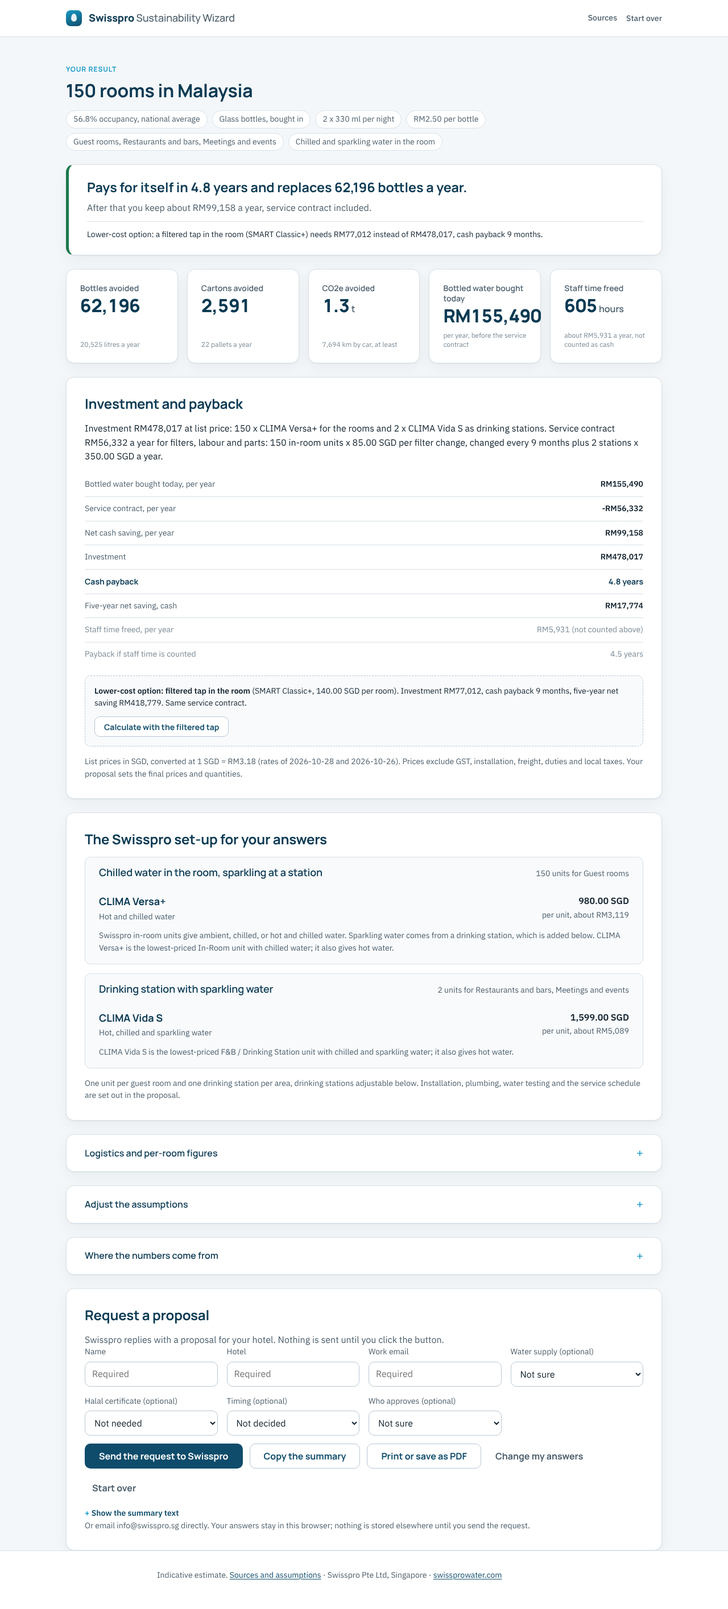
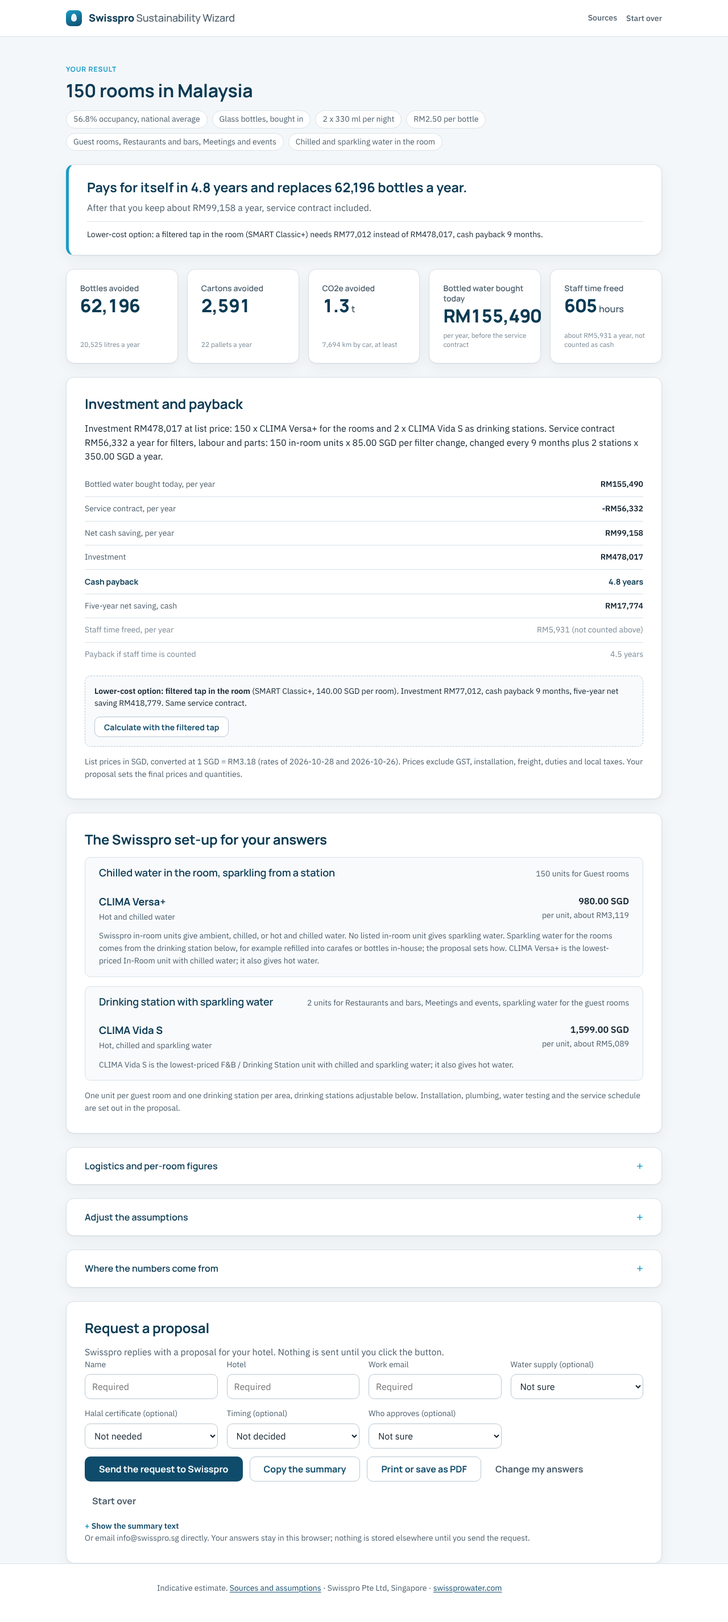
Lower-cost option as an explicit, reversible override that keeps the sparkling station; sparkling explained for the rooms
Claude-Session: https://claude.ai/code/session_01APodsUFWSb661S1TCdvVpy

diff --git a/artifact/wizard.html b/artifact/wizard.html
@@ -935,14 +935,22 @@ details.fine summary { font-weight: 600; }
     return plan;
   }
 
-  function inRoomSolution(a) {
+  var SPARKLING_NOTE = 'No listed in-room unit gives sparkling water. Sparkling water for the rooms comes from the drinking station below, for example refilled into carafes or bottles in-house; the proposal sets how.';
+
+  function inRoomSolution(a, overrides) {
     var temps = a.temps || 'ambient';
     var s = { area: 'inRoom', areaLabel: 'In-Room', covers: [LABELS.areas.rooms], requiredTemps: [], notes: [] };
+    if (overrides && overrides.inRoomTap && temps !== 'ambient') {
+      s.title = 'Filtered tap in the room (lower-cost option)'; s.requiredTemps = ['ambient']; s.lowerCost = true;
+      s.notes.push('You asked for ' + LABELS.temps[temps] + ' water in the room; this is the lower-cost option with a filtered tap.');
+      if (temps === 'sparkling') s.notes.push(SPARKLING_NOTE);
+      return s;
+    }
     if (temps === 'ambient') { s.title = 'Filtered tap in the room'; s.requiredTemps = ['ambient']; }
     else if (temps === 'sparkling') {
-      s.title = 'Chilled water in the room, sparkling at a station';
+      s.title = 'Chilled water in the room, sparkling from a station';
       s.requiredTemps = ['cold'];
-      s.notes.push('Swisspro in-room units give ambient, chilled, or hot and chilled water. Sparkling water comes from a drinking station, which is added below.');
+      s.notes.push('Swisspro in-room units give ambient, chilled, or hot and chilled water. ' + SPARKLING_NOTE);
     }
     else if (temps === 'hotcold') { s.title = 'Hot and chilled water at the minibar'; s.requiredTemps = ['hot', 'cold']; }
     else { s.title = 'Chilled water at the minibar'; s.requiredTemps = ['cold']; }
@@ -952,7 +960,7 @@ details.fine summary { font-weight: 600; }
   function stationSolution(a) {
     var covers = ['fnb', 'meetings', 'boh'].filter(function (k) { return has(a.areas, k); }).map(function (k) { return LABELS.areas[k]; });
     var sparkling = has(a.areas, 'rooms') && a.temps === 'sparkling';
-    if (sparkling && !covers.length) covers.push('Sparkling water for the rooms');
+    if (sparkling) covers.push('sparkling water for the guest rooms');
     return { area: 'fnb', areaLabel: 'F&B / Drinking Station', covers: covers, requiredTemps: sparkling ? ['cold', 'sparkling'] : ['cold'], notes: [], title: sparkling ? 'Drinking station with sparkling water' : 'Drinking station' };
   }
 
@@ -981,15 +989,15 @@ details.fine summary { font-weight: 600; }
   }
 
   /* Lower-cost comparison: a filtered tap (ambient) in the room instead of a chilled or hot unit. */
-  function alternative(a, PL) {
-    if (!has(a.areas, 'rooms') || !a.temps || a.temps === 'ambient') return null;
+  function alternative(a, PL, overrides) {
+    if (!has(a.areas, 'rooms') || !a.temps || a.temps === 'ambient' || (overrides && overrides.inRoomTap)) return null;
     var s = attachProducts(inRoomSolution({ temps: 'ambient' }), PL);
     return s.exactMatch ? s : null;
   }
 
-  function solutions(a, PL) {
+  function solutions(a, PL, overrides) {
     var out = [];
-    if (has(a.areas, 'rooms')) out.push(attachProducts(inRoomSolution(a), PL));
+    if (has(a.areas, 'rooms')) out.push(attachProducts(inRoomSolution(a, overrides), PL));
     if (has(a.areas, 'fnb') || has(a.areas, 'meetings') || has(a.areas, 'boh') || (has(a.areas, 'rooms') && a.temps === 'sparkling')) out.push(attachProducts(stationSolution(a), PL));
     return out;
   }
@@ -1009,13 +1017,14 @@ details.fine summary { font-weight: 600; }
     return { order: order.map(function (k) { return args[k]; }), cheapWater: cheapWater, priceUsd: priceUsd };
   }
 
-  function segment(a) {
-    return { current: LABELS.current[a.current] || '-', areas: (a.areas || []).map(function (x) { return LABELS.areas[x] || x; }), temps: LABELS.temps[a.temps] || null };
+  function segment(a, overrides) {
+    var lower = !!(overrides && overrides.inRoomTap && a.temps && a.temps !== 'ambient' && has(a.areas, 'rooms'));
+    return { current: LABELS.current[a.current] || '-', areas: (a.areas || []).map(function (x) { return LABELS.areas[x] || x; }), temps: LABELS.temps[a.temps] || null, lowerCost: lower, tempsShown: lower ? LABELS.temps.ambient : (LABELS.temps[a.temps] || null) };
   }
 
   function recommend(a, inp, F, PL, overrides) {
     var args = argumentOrder(inp, F);
-    return { segment: segment(a), unitPlan: unitPlan(a, overrides), solutions: solutions(a, PL), alternative: alternative(a, PL), arguments: args.order, cheapWater: args.cheapWater, labels: LABELS };
+    return { segment: segment(a, overrides), unitPlan: unitPlan(a, overrides), solutions: solutions(a, PL, overrides), alternative: alternative(a, PL, overrides), arguments: args.order, cheapWater: args.cheapWater, labels: LABELS };
   }
 
   return { recommend: recommend, unitPlan: unitPlan, solutions: solutions, alternative: alternative, describe: describe, inRoomSolution: inRoomSolution, stationSolution: stationSolution, argumentOrder: argumentOrder, LABELS: LABELS, TEMP_LABEL: TEMP_LABEL };
@@ -1133,7 +1142,8 @@ details.fine summary { font-weight: 600; }
     step.fields.forEach(function (f) {
       if (f.showIf && !f.showIf(a)) return;
       var wrap = el('div', { class: 'field', 'data-field': f.id });
-      if (f.label) wrap.appendChild(el('div', { class: 'field-label', id: 'lbl-' + f.id, text: f.label }));
+      var labelText = f.id === 'priceCustom' ? 'Price per bottle (' + (F.countries[a.country] || F.countries.OTHER).currency + ')' : f.label;
+      if (f.label) wrap.appendChild(el('div', { class: 'field-label', id: 'lbl-' + f.id, text: labelText }));
       if (f.type === 'single' || f.type === 'multi') {
         var opts = fieldOptions(f);
         var listMode = opts.some(function (o) { return o.desc && o.desc.length > 40; });
@@ -1295,7 +1305,7 @@ details.fine summary { font-weight: 600; }
     }
     var y = pb.cashPaybackYears, net = pb.cashSavingsPerYear;
     if (isFinite(y) && y <= 5) {
-      v.tone = 'good';
+      v.tone = y <= 4 ? 'good' : 'neutral';
       v.head = 'Pays for itself in ' + fmt.years(y) + ' and replaces ' + bottles + '.';
       v.sub = 'After that you keep about ' + moneyShort(ctx, net) + ' a year, service contract included.';
     } else if (isFinite(y)) {
@@ -1312,6 +1322,10 @@ details.fine summary { font-weight: 600; }
     return v;
   }
 
+  function scrollToVerdict() { var h = document.querySelector('.verdict'); if (h) h.scrollIntoView({ behavior: 'smooth', block: 'start' }); }
+  function showLowerCost() { state.overrides.inRoomTap = true; save(); renderResults(); scrollToVerdict(); }
+  function backToChoice() { delete state.overrides.inRoomTap; save(); renderResults(); scrollToVerdict(); }
+
   function renderResults() {
     var ctx = compute();
     var a = state.answers, n = ctx.n, c = ctx.calc, rec = ctx.rec, prov = n.provenance, inp = n.inputs;
@@ -1327,12 +1341,13 @@ details.fine summary { font-weight: 600; }
         inp.bottlesPerRoomNight ? el('span', { text: inp.bottlesPerRoomNight + ' x ' + sizeLabel(inp.bottleSizeMl) + ' per night' + (bpnAssumed || sizeAssumed ? ', assumed' : '') }) : null,
         inp.pricePerBottle > 0 ? el('span', { text: fmt.money(inp.symbol, inp.pricePerBottle, inp.decimals === 0 ? 0 : 2) + ' per bottle' + (prov.pricePerBottle.kind !== 'user' ? ', reference price' : '') }) : null,
         el('span', { text: rec.segment.areas.join(', ') }),
-        rec.segment.temps ? el('span', { class: state.prevTemps ? 'chip-switched' : null, text: fmt.cap(rec.segment.temps) + ' water in the room' + (state.prevTemps ? ', switched from ' + R.LABELS.temps[state.prevTemps] : '') }) : null)));
+        rec.segment.temps ? el('span', { class: rec.segment.lowerCost ? 'chip-switched' : null, text: rec.segment.lowerCost ? 'Showing the filtered tap instead of ' + rec.segment.temps + ' water in the room' : fmt.cap(rec.segment.temps) + ' water in the room' }) : null)));
 
     var v = verdict(ctx);
     root.appendChild(el('section', { class: 'card verdict verdict-' + v.tone },
       el('p', { class: 'verdict-head', text: v.head }),
       v.sub ? el('p', { class: 'verdict-sub', text: v.sub }) : null,
+      rec.segment.lowerCost ? el('p', { class: 'verdict-alt' }, 'You are looking at the lower-cost option: a filtered tap in the room. Your original choice was ' + rec.segment.temps + ' water. ', el('button', { type: 'button', class: 'link-btn', onclick: backToChoice }, 'Back to ' + rec.segment.temps)) : null,
       v.alt ? el('p', { class: 'verdict-alt', text: v.alt }) : null));
 
     var tiles = el('div', { class: 'tiles' });
@@ -1375,7 +1390,7 @@ details.fine summary { font-weight: 600; }
   }
 
   function renderPayback(ctx) {
-    var c = ctx.calc, inp = ctx.n.inputs, pr = ctx.pr, pb = c.payback, cur = PL.pricelist.currency.value;
+    var c = ctx.calc, inp = ctx.n.inputs, pr = ctx.pr, pb = c.payback, rec = ctx.rec, cur = PL.pricelist.currency.value;
     var card = el('section', { class: 'card' });
     card.appendChild(el('h3', { text: 'Investment and payback' }));
     card.appendChild(el('p', { class: 'lead-line', text: investmentSentence(ctx) }));
@@ -1397,11 +1412,9 @@ details.fine summary { font-weight: 600; }
         var ap = pr.alt.payback;
         card.appendChild(el('div', { class: 'alt-box' },
           el('p', {}, el('strong', { text: 'Lower-cost option: filtered tap in the room' }), ' (' + modelName(pr.alt.product) + ', ' + listPrice(pr.alt.product) + ' per room). Investment ' + money(ctx, pr.alt.capexLocal) + ', cash payback ' + fmt.years(ap.cashPaybackYears) + ', five-year net saving ' + money(ctx, ap.fiveYearNetCash) + '. Same service contract.'),
-          el('button', { type: 'button', class: 'btn btn-secondary btn-sm', onclick: function () { state.prevTemps = state.answers.temps; state.answers.temps = 'ambient'; save(); renderResults(); var h = document.querySelector('.verdict'); if (h) h.scrollIntoView({ behavior: 'smooth', block: 'start' }); } }, 'Calculate with the filtered tap')));
+          el('button', { type: 'button', class: 'btn btn-secondary btn-sm', onclick: showLowerCost }, 'Calculate with the filtered tap')));
       }
-      if (state.prevTemps && state.prevTemps !== 'ambient' && state.answers.temps === 'ambient') {
-        card.appendChild(el('p', { class: 'small', style: 'margin-top:12px' }, el('button', { type: 'button', class: 'link-btn', onclick: function () { state.answers.temps = state.prevTemps; delete state.prevTemps; save(); renderResults(); var h = document.querySelector('.verdict'); if (h) h.scrollIntoView({ behavior: 'smooth', block: 'start' }); } }, 'Back to ' + (R.LABELS.temps[state.prevTemps] || state.prevTemps) + ' water in the room')));
-      }
+      if (rec.segment.lowerCost) card.appendChild(el('p', { class: 'small', style: 'margin-top:12px' }, el('button', { type: 'button', class: 'link-btn', onclick: backToChoice }, 'Back to ' + rec.segment.temps + ' water in the room')));
     } else if (pr.unpriced.length) {
       card.appendChild(el('p', { class: 'notice', text: 'The price list has no unit for ' + pr.unpriced.map(function (u) { return u.area; }).join(' and ') + '. Enter the investment from your proposal under Adjust to see the payback.' }));
     } else {
@@ -1501,7 +1514,7 @@ details.fine summary { font-weight: 600; }
     field(g3, 'newMinutesPerRoomPerDay', 'Minutes per room and day with filtered water', inp.newMinutesPerRoomPerDay, 0.5, null, 'Refilling carafes, for example');
     field(g3, 'wageHourly', 'Hourly labour cost (' + inp.currency + ')', Math.round(inp.wageHourly * 100) / 100, 0.1, null, ctx.n.provenance.wageHourly.kind === 'user' ? 'Your figure' : 'Minimum wage');
     field(g3, 'stockWeeks', 'Weeks of stock on site', inp.stockWeeks, 1);
-    card.appendChild(el('div', { class: 'actions' }, el('button', { type: 'button', class: 'btn btn-ghost', onclick: function () { state.overrides = {}; if (state.prevTemps) { state.answers.temps = state.prevTemps; delete state.prevTemps; } save(); renderResults(); } }, 'Reset to the defaults')));
+    card.appendChild(el('div', { class: 'actions' }, el('button', { type: 'button', class: 'btn btn-ghost', onclick: function () { state.overrides = {}; save(); renderResults(); } }, 'Reset to the defaults')));
     return card;
   }
 
@@ -1547,7 +1560,7 @@ details.fine summary { font-weight: 600; }
     L.push('');
     L.push(fmt.int(inp.rooms) + ' rooms in ' + ctx.n.country.name + ', ' + fmt.pct(inp.occupancy) + ' occupancy' + (ctx.n.provenance.occupancy.kind === 'user' ? '' : ' (national average)') + '.');
     L.push('Today: ' + rec.segment.current + (inp.bottlesPerRoomNight ? ', ' + inp.bottlesPerRoomNight + ' x ' + sizeLabel(inp.bottleSizeMl) + ' per room and night' : '') + (inp.pricePerBottle > 0 ? ' at ' + fmt.money(sym, inp.pricePerBottle, inp.decimals === 0 ? 0 : 2) + ' per bottle' + (ctx.n.provenance.pricePerBottle.kind === 'user' ? '' : ' (reference price)') : '') + '.');
-    L.push('Wanted: ' + rec.segment.areas.join(', ') + (rec.segment.temps ? '; ' + rec.segment.temps + ' water in the room' : '') + '.');
+    L.push('Wanted: ' + rec.segment.areas.join(', ') + (rec.segment.temps ? '; ' + rec.segment.temps + ' water in the room' : '') + '.' + (rec.segment.lowerCost ? ' Figures below are for the lower-cost option with a filtered tap in the room.' : ''));
     var extra = []; if (p.source) extra.push('Water supply: ' + (R.LABELS.source[p.source] || p.source)); if (p.halal) extra.push('Halal certificate requested'); if (p.timing) extra.push('Timing: ' + R.LABELS.timing[p.timing]); if (p.approval) extra.push('Approval by: ' + R.LABELS.approval[p.approval]);
     if (extra.length) L.push(extra.join('. ') + '.');
     L.push('');
@@ -1627,7 +1640,7 @@ details.fine summary { font-weight: 600; }
       sendBtn,
       el('button', { type: 'button', class: 'btn btn-secondary', onclick: function () { copyText(this, refreshText()); } }, 'Copy the summary'),
       ARTIFACT ? null : el('button', { type: 'button', class: 'btn btn-secondary', onclick: function () { window.print(); } }, 'Print or save as PDF'),
-      el('button', { type: 'button', class: 'btn btn-ghost', onclick: function () { state.view = 'wizard'; state.step = 0; delete state.prevTemps; save(); render(); scrollTop(); } }, 'Change my answers'),
+      el('button', { type: 'button', class: 'btn btn-ghost', onclick: function () { state.view = 'wizard'; state.step = 0; delete state.overrides.inRoomTap; save(); render(); scrollTop(); } }, 'Change my answers'),
       el('button', { type: 'button', class: 'btn btn-ghost', onclick: restart }, 'Start over'));
     card.appendChild(actions);
     card.appendChild(status);

diff --git a/js/app.js b/js/app.js
@@ -74,7 +74,8 @@
     step.fields.forEach(function (f) {
       if (f.showIf && !f.showIf(a)) return;
       var wrap = el('div', { class: 'field', 'data-field': f.id });
-      if (f.label) wrap.appendChild(el('div', { class: 'field-label', id: 'lbl-' + f.id, text: f.label }));
+      var labelText = f.id === 'priceCustom' ? 'Price per bottle (' + (F.countries[a.country] || F.countries.OTHER).currency + ')' : f.label;
+      if (f.label) wrap.appendChild(el('div', { class: 'field-label', id: 'lbl-' + f.id, text: labelText }));
       if (f.type === 'single' || f.type === 'multi') {
         var opts = fieldOptions(f);
         var listMode = opts.some(function (o) { return o.desc && o.desc.length > 40; });
@@ -236,7 +237,7 @@
     }
     var y = pb.cashPaybackYears, net = pb.cashSavingsPerYear;
     if (isFinite(y) && y <= 5) {
-      v.tone = 'good';
+      v.tone = y <= 4 ? 'good' : 'neutral';
       v.head = 'Pays for itself in ' + fmt.years(y) + ' and replaces ' + bottles + '.';
       v.sub = 'After that you keep about ' + moneyShort(ctx, net) + ' a year, service contract included.';
     } else if (isFinite(y)) {
@@ -253,6 +254,10 @@
     return v;
   }
 
+  function scrollToVerdict() { var h = document.querySelector('.verdict'); if (h) h.scrollIntoView({ behavior: 'smooth', block: 'start' }); }
+  function showLowerCost() { state.overrides.inRoomTap = true; save(); renderResults(); scrollToVerdict(); }
+  function backToChoice() { delete state.overrides.inRoomTap; save(); renderResults(); scrollToVerdict(); }
+
   function renderResults() {
     var ctx = compute();
     var a = state.answers, n = ctx.n, c = ctx.calc, rec = ctx.rec, prov = n.provenance, inp = n.inputs;
@@ -268,12 +273,13 @@
         inp.bottlesPerRoomNight ? el('span', { text: inp.bottlesPerRoomNight + ' x ' + sizeLabel(inp.bottleSizeMl) + ' per night' + (bpnAssumed || sizeAssumed ? ', assumed' : '') }) : null,
         inp.pricePerBottle > 0 ? el('span', { text: fmt.money(inp.symbol, inp.pricePerBottle, inp.decimals === 0 ? 0 : 2) + ' per bottle' + (prov.pricePerBottle.kind !== 'user' ? ', reference price' : '') }) : null,
         el('span', { text: rec.segment.areas.join(', ') }),
-        rec.segment.temps ? el('span', { class: state.prevTemps ? 'chip-switched' : null, text: fmt.cap(rec.segment.temps) + ' water in the room' + (state.prevTemps ? ', switched from ' + R.LABELS.temps[state.prevTemps] : '') }) : null)));
+        rec.segment.temps ? el('span', { class: rec.segment.lowerCost ? 'chip-switched' : null, text: rec.segment.lowerCost ? 'Showing the filtered tap instead of ' + rec.segment.temps + ' water in the room' : fmt.cap(rec.segment.temps) + ' water in the room' }) : null)));
 
     var v = verdict(ctx);
     root.appendChild(el('section', { class: 'card verdict verdict-' + v.tone },
       el('p', { class: 'verdict-head', text: v.head }),
       v.sub ? el('p', { class: 'verdict-sub', text: v.sub }) : null,
+      rec.segment.lowerCost ? el('p', { class: 'verdict-alt' }, 'You are looking at the lower-cost option: a filtered tap in the room. Your original choice was ' + rec.segment.temps + ' water. ', el('button', { type: 'button', class: 'link-btn', onclick: backToChoice }, 'Back to ' + rec.segment.temps)) : null,
       v.alt ? el('p', { class: 'verdict-alt', text: v.alt }) : null));
 
     var tiles = el('div', { class: 'tiles' });
@@ -316,7 +322,7 @@
   }
 
   function renderPayback(ctx) {
-    var c = ctx.calc, inp = ctx.n.inputs, pr = ctx.pr, pb = c.payback, cur = PL.pricelist.currency.value;
+    var c = ctx.calc, inp = ctx.n.inputs, pr = ctx.pr, pb = c.payback, rec = ctx.rec, cur = PL.pricelist.currency.value;
     var card = el('section', { class: 'card' });
     card.appendChild(el('h3', { text: 'Investment and payback' }));
     card.appendChild(el('p', { class: 'lead-line', text: investmentSentence(ctx) }));
@@ -338,11 +344,9 @@
         var ap = pr.alt.payback;
         card.appendChild(el('div', { class: 'alt-box' },
           el('p', {}, el('strong', { text: 'Lower-cost option: filtered tap in the room' }), ' (' + modelName(pr.alt.product) + ', ' + listPrice(pr.alt.product) + ' per room). Investment ' + money(ctx, pr.alt.capexLocal) + ', cash payback ' + fmt.years(ap.cashPaybackYears) + ', five-year net saving ' + money(ctx, ap.fiveYearNetCash) + '. Same service contract.'),
-          el('button', { type: 'button', class: 'btn btn-secondary btn-sm', onclick: function () { state.prevTemps = state.answers.temps; state.answers.temps = 'ambient'; save(); renderResults(); var h = document.querySelector('.verdict'); if (h) h.scrollIntoView({ behavior: 'smooth', block: 'start' }); } }, 'Calculate with the filtered tap')));
+          el('button', { type: 'button', class: 'btn btn-secondary btn-sm', onclick: showLowerCost }, 'Calculate with the filtered tap')));
       }
-      if (state.prevTemps && state.prevTemps !== 'ambient' && state.answers.temps === 'ambient') {
-        card.appendChild(el('p', { class: 'small', style: 'margin-top:12px' }, el('button', { type: 'button', class: 'link-btn', onclick: function () { state.answers.temps = state.prevTemps; delete state.prevTemps; save(); renderResults(); var h = document.querySelector('.verdict'); if (h) h.scrollIntoView({ behavior: 'smooth', block: 'start' }); } }, 'Back to ' + (R.LABELS.temps[state.prevTemps] || state.prevTemps) + ' water in the room')));
-      }
+      if (rec.segment.lowerCost) card.appendChild(el('p', { class: 'small', style: 'margin-top:12px' }, el('button', { type: 'button', class: 'link-btn', onclick: backToChoice }, 'Back to ' + rec.segment.temps + ' water in the room')));
     } else if (pr.unpriced.length) {
       card.appendChild(el('p', { class: 'notice', text: 'The price list has no unit for ' + pr.unpriced.map(function (u) { return u.area; }).join(' and ') + '. Enter the investment from your proposal under Adjust to see the payback.' }));
     } else {
@@ -442,7 +446,7 @@
     field(g3, 'newMinutesPerRoomPerDay', 'Minutes per room and day with filtered water', inp.newMinutesPerRoomPerDay, 0.5, null, 'Refilling carafes, for example');
     field(g3, 'wageHourly', 'Hourly labour cost (' + inp.currency + ')', Math.round(inp.wageHourly * 100) / 100, 0.1, null, ctx.n.provenance.wageHourly.kind === 'user' ? 'Your figure' : 'Minimum wage');
     field(g3, 'stockWeeks', 'Weeks of stock on site', inp.stockWeeks, 1);
-    card.appendChild(el('div', { class: 'actions' }, el('button', { type: 'button', class: 'btn btn-ghost', onclick: function () { state.overrides = {}; if (state.prevTemps) { state.answers.temps = state.prevTemps; delete state.prevTemps; } save(); renderResults(); } }, 'Reset to the defaults')));
+    card.appendChild(el('div', { class: 'actions' }, el('button', { type: 'button', class: 'btn btn-ghost', onclick: function () { state.overrides = {}; save(); renderResults(); } }, 'Reset to the defaults')));
     return card;
   }
 
@@ -488,7 +492,7 @@
     L.push('');
     L.push(fmt.int(inp.rooms) + ' rooms in ' + ctx.n.country.name + ', ' + fmt.pct(inp.occupancy) + ' occupancy' + (ctx.n.provenance.occupancy.kind === 'user' ? '' : ' (national average)') + '.');
     L.push('Today: ' + rec.segment.current + (inp.bottlesPerRoomNight ? ', ' + inp.bottlesPerRoomNight + ' x ' + sizeLabel(inp.bottleSizeMl) + ' per room and night' : '') + (inp.pricePerBottle > 0 ? ' at ' + fmt.money(sym, inp.pricePerBottle, inp.decimals === 0 ? 0 : 2) + ' per bottle' + (ctx.n.provenance.pricePerBottle.kind === 'user' ? '' : ' (reference price)') : '') + '.');
-    L.push('Wanted: ' + rec.segment.areas.join(', ') + (rec.segment.temps ? '; ' + rec.segment.temps + ' water in the room' : '') + '.');
+    L.push('Wanted: ' + rec.segment.areas.join(', ') + (rec.segment.temps ? '; ' + rec.segment.temps + ' water in the room' : '') + '.' + (rec.segment.lowerCost ? ' Figures below are for the lower-cost option with a filtered tap in the room.' : ''));
     var extra = []; if (p.source) extra.push('Water supply: ' + (R.LABELS.source[p.source] || p.source)); if (p.halal) extra.push('Halal certificate requested'); if (p.timing) extra.push('Timing: ' + R.LABELS.timing[p.timing]); if (p.approval) extra.push('Approval by: ' + R.LABELS.approval[p.approval]);
     if (extra.length) L.push(extra.join('. ') + '.');
     L.push('');
@@ -568,7 +572,7 @@
       sendBtn,
       el('button', { type: 'button', class: 'btn btn-secondary', onclick: function () { copyText(this, refreshText()); } }, 'Copy the summary'),
       ARTIFACT ? null : el('button', { type: 'button', class: 'btn btn-secondary', onclick: function () { window.print(); } }, 'Print or save as PDF'),
-      el('button', { type: 'button', class: 'btn btn-ghost', onclick: function () { state.view = 'wizard'; state.step = 0; delete state.prevTemps; save(); render(); scrollTop(); } }, 'Change my answers'),
+      el('button', { type: 'button', class: 'btn btn-ghost', onclick: function () { state.view = 'wizard'; state.step = 0; delete state.overrides.inRoomTap; save(); render(); scrollTop(); } }, 'Change my answers'),
       el('button', { type: 'button', class: 'btn btn-ghost', onclick: restart }, 'Start over'));
     card.appendChild(actions);
     card.appendChild(status);

diff --git a/js/recommend.js b/js/recommend.js
@@ -29,14 +29,22 @@
     return plan;
   }
 
-  function inRoomSolution(a) {
+  var SPARKLING_NOTE = 'No listed in-room unit gives sparkling water. Sparkling water for the rooms comes from the drinking station below, for example refilled into carafes or bottles in-house; the proposal sets how.';
+
+  function inRoomSolution(a, overrides) {
     var temps = a.temps || 'ambient';
     var s = { area: 'inRoom', areaLabel: 'In-Room', covers: [LABELS.areas.rooms], requiredTemps: [], notes: [] };
+    if (overrides && overrides.inRoomTap && temps !== 'ambient') {
+      s.title = 'Filtered tap in the room (lower-cost option)'; s.requiredTemps = ['ambient']; s.lowerCost = true;
+      s.notes.push('You asked for ' + LABELS.temps[temps] + ' water in the room; this is the lower-cost option with a filtered tap.');
+      if (temps === 'sparkling') s.notes.push(SPARKLING_NOTE);
+      return s;
+    }
     if (temps === 'ambient') { s.title = 'Filtered tap in the room'; s.requiredTemps = ['ambient']; }
     else if (temps === 'sparkling') {
-      s.title = 'Chilled water in the room, sparkling at a station';
+      s.title = 'Chilled water in the room, sparkling from a station';
       s.requiredTemps = ['cold'];
-      s.notes.push('Swisspro in-room units give ambient, chilled, or hot and chilled water. Sparkling water comes from a drinking station, which is added below.');
+      s.notes.push('Swisspro in-room units give ambient, chilled, or hot and chilled water. ' + SPARKLING_NOTE);
     }
     else if (temps === 'hotcold') { s.title = 'Hot and chilled water at the minibar'; s.requiredTemps = ['hot', 'cold']; }
     else { s.title = 'Chilled water at the minibar'; s.requiredTemps = ['cold']; }
@@ -46,7 +54,7 @@
   function stationSolution(a) {
     var covers = ['fnb', 'meetings', 'boh'].filter(function (k) { return has(a.areas, k); }).map(function (k) { return LABELS.areas[k]; });
     var sparkling = has(a.areas, 'rooms') && a.temps === 'sparkling';
-    if (sparkling && !covers.length) covers.push('Sparkling water for the rooms');
+    if (sparkling) covers.push('sparkling water for the guest rooms');
     return { area: 'fnb', areaLabel: 'F&B / Drinking Station', covers: covers, requiredTemps: sparkling ? ['cold', 'sparkling'] : ['cold'], notes: [], title: sparkling ? 'Drinking station with sparkling water' : 'Drinking station' };
   }
 
@@ -75,15 +83,15 @@
   }
 
   /* Lower-cost comparison: a filtered tap (ambient) in the room instead of a chilled or hot unit. */
-  function alternative(a, PL) {
-    if (!has(a.areas, 'rooms') || !a.temps || a.temps === 'ambient') return null;
+  function alternative(a, PL, overrides) {
+    if (!has(a.areas, 'rooms') || !a.temps || a.temps === 'ambient' || (overrides && overrides.inRoomTap)) return null;
     var s = attachProducts(inRoomSolution({ temps: 'ambient' }), PL);
     return s.exactMatch ? s : null;
   }
 
-  function solutions(a, PL) {
+  function solutions(a, PL, overrides) {
     var out = [];
-    if (has(a.areas, 'rooms')) out.push(attachProducts(inRoomSolution(a), PL));
+    if (has(a.areas, 'rooms')) out.push(attachProducts(inRoomSolution(a, overrides), PL));
     if (has(a.areas, 'fnb') || has(a.areas, 'meetings') || has(a.areas, 'boh') || (has(a.areas, 'rooms') && a.temps === 'sparkling')) out.push(attachProducts(stationSolution(a), PL));
     return out;
   }
@@ -103,13 +111,14 @@
     return { order: order.map(function (k) { return args[k]; }), cheapWater: cheapWater, priceUsd: priceUsd };
   }
 
-  function segment(a) {
-    return { current: LABELS.current[a.current] || '-', areas: (a.areas || []).map(function (x) { return LABELS.areas[x] || x; }), temps: LABELS.temps[a.temps] || null };
+  function segment(a, overrides) {
+    var lower = !!(overrides && overrides.inRoomTap && a.temps && a.temps !== 'ambient' && has(a.areas, 'rooms'));
+    return { current: LABELS.current[a.current] || '-', areas: (a.areas || []).map(function (x) { return LABELS.areas[x] || x; }), temps: LABELS.temps[a.temps] || null, lowerCost: lower, tempsShown: lower ? LABELS.temps.ambient : (LABELS.temps[a.temps] || null) };
   }
 
   function recommend(a, inp, F, PL, overrides) {
     var args = argumentOrder(inp, F);
-    return { segment: segment(a), unitPlan: unitPlan(a, overrides), solutions: solutions(a, PL), alternative: alternative(a, PL), arguments: args.order, cheapWater: args.cheapWater, labels: LABELS };
+    return { segment: segment(a, overrides), unitPlan: unitPlan(a, overrides), solutions: solutions(a, PL, overrides), alternative: alternative(a, PL, overrides), arguments: args.order, cheapWater: args.cheapWater, labels: LABELS };
   }
 
   return { recommend: recommend, unitPlan: unitPlan, solutions: solutions, alternative: alternative, describe: describe, inRoomSolution: inRoomSolution, stationSolution: stationSolution, argumentOrder: argumentOrder, LABELS: LABELS, TEMP_LABEL: TEMP_LABEL };

diff --git a/tools/walkthrough.js b/tools/walkthrough.js
@@ -105,6 +105,17 @@ const scenarios = {
       for (const [k, v] of Object.entries(prop)) { const sel = await page.$(`select#pf-${k}`); if (sel) await page.selectOption(`#pf-${k}`, v); else if (await page.$(`#pf-${k}`)) await page.fill(`#pf-${k}`, v); }
       const details = await page.$$('details'); for (const d of details) { await d.evaluate(e => e.open = true); }
       const payback = await page.$$eval('.kv td', els => els.map(e => e.textContent.trim()));
+      // lower-cost option: the recomputed investment must equal the figure promised in the box
+      if (await page.$('.alt-box .btn')) {
+        const promised = await page.$eval('.alt-box p', e => (e.textContent.match(/Investment (\S+), cash/) || [])[1]);
+        await page.click('.alt-box .btn'); await page.waitForTimeout(150);
+        const shown = await page.$eval('.lead-line', e => (e.textContent.match(/Investment ([^ ]+) /) || [])[1]);
+        if (promised !== shown) errors.push(`lower-cost option mismatch: promised ${promised}, shown ${shown}`);
+        if (!(await page.$('.chip-switched'))) errors.push('no switched chip after lower-cost option');
+        await page.click('.verdict .link-btn'); await page.waitForTimeout(150);
+        if (await page.$('.chip-switched')) errors.push('back link did not restore the choice');
+        await openAll();
+      }
       const summary = await page.evaluate(() => window.SW.app.summaryText(window.SW.app.compute()));
       ['perChange', 'pricelist', 'SWISPRO', 'no exact line', 'read as', 'localhost', '127.0.0.1'].forEach(bad => { if (summary.indexOf(bad) >= 0 && !(bad === '127.0.0.1')) errors.push('jargon in summary text: ' + bad); });
       const verdict = await page.$eval('.verdict-head', e => e.textContent).catch(() => '');

diff --git a/test/recommend.test.js b/test/recommend.test.js
@@ -34,7 +34,7 @@ test('products come only from the price list, only from the solution\'s area, ma
   assert.equal(sparkSols.length, 2); // chilled in the room plus a sparkling station
   assert.equal(sparkSols[0].exactMatch, true);
   assert.equal(sparkSols[0].products[0].label, 'CLIMA Versa+ (Hot, Cold)');
-  assert.match(sparkSols[0].notes.join(' '), /Sparkling water comes from a drinking station/);
+  assert.match(sparkSols[0].notes.join(' '), /Sparkling water for the rooms comes from the drinking station/);
   assert.equal(sparkSols[1].products[0].label, 'CLIMA Vida S (Hot, Cold, Sparkling)');
   assert.equal(R.unitPlan(Object.assign({}, base, { temps: 'sparkling' })).stations, 1);
   assert.equal(R.unitPlan(base, { stations: 4 }).stations, 4);
@@ -66,4 +66,16 @@ test('recommend() returns no lead score and no text-only flags', () => {
   const r = R.recommend(base, inp, F, PL);
   assert.equal(r.lead, undefined); assert.equal(r.filtration, undefined);
   assert.ok(Array.isArray(r.arguments) && r.solutions.length === 1);
+});
+
+test('lower-cost option keeps the sparkling station and the original wish', () => {
+  const a = { country: 'MY', rooms: 150, current: 'glass_bought', areas: ['rooms', 'fnb'], temps: 'sparkling' };
+  const r = R.recommend(a, inp, F, PL, { inRoomTap: true });
+  assert.equal(r.solutions[0].products[0].label, 'SMART Classic+');
+  assert.equal(r.solutions[0].lowerCost, true);
+  assert.equal(r.solutions[1].products[0].label, 'CLIMA Vida S (Hot, Cold, Sparkling)');
+  assert.match(r.solutions[1].covers.join(' '), /sparkling water for the guest rooms/);
+  assert.equal(r.segment.lowerCost, true);
+  assert.equal(r.segment.temps, 'chilled and sparkling');
+  assert.equal(r.alternative, null);
 });
